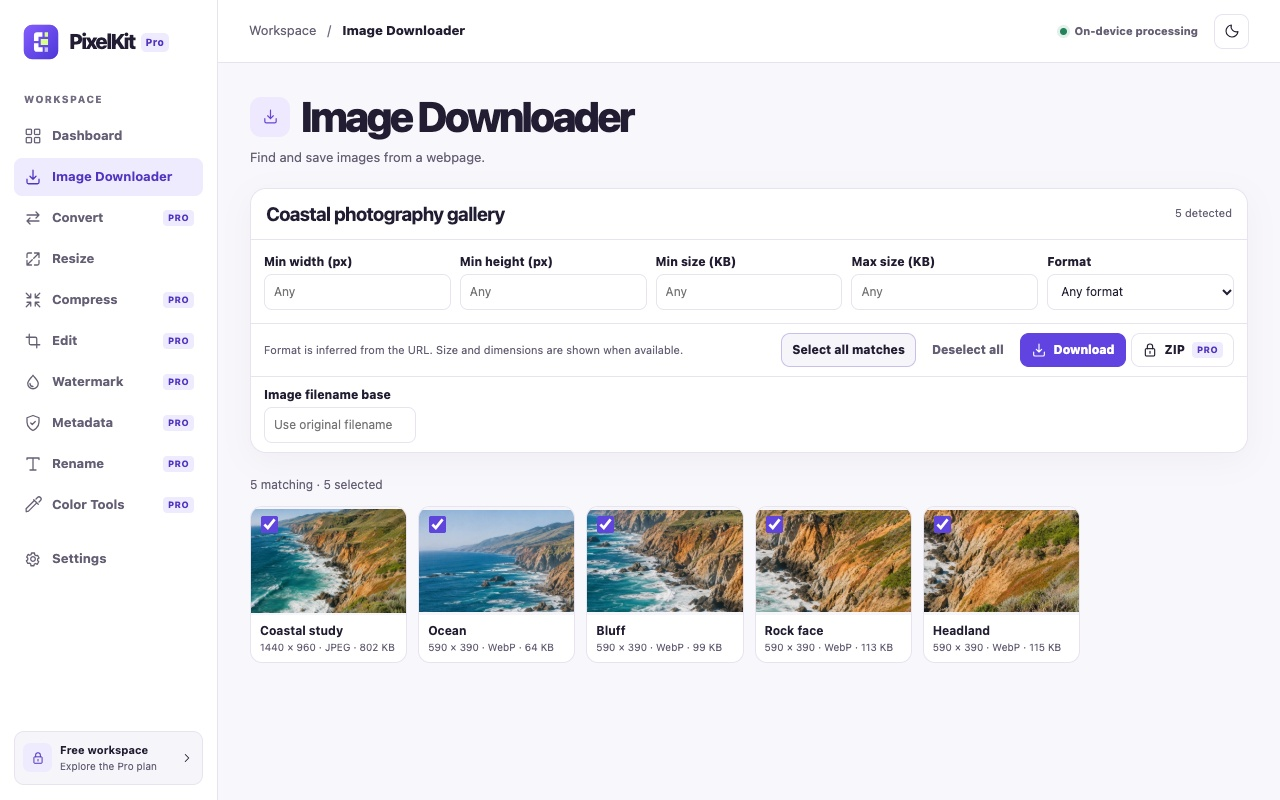
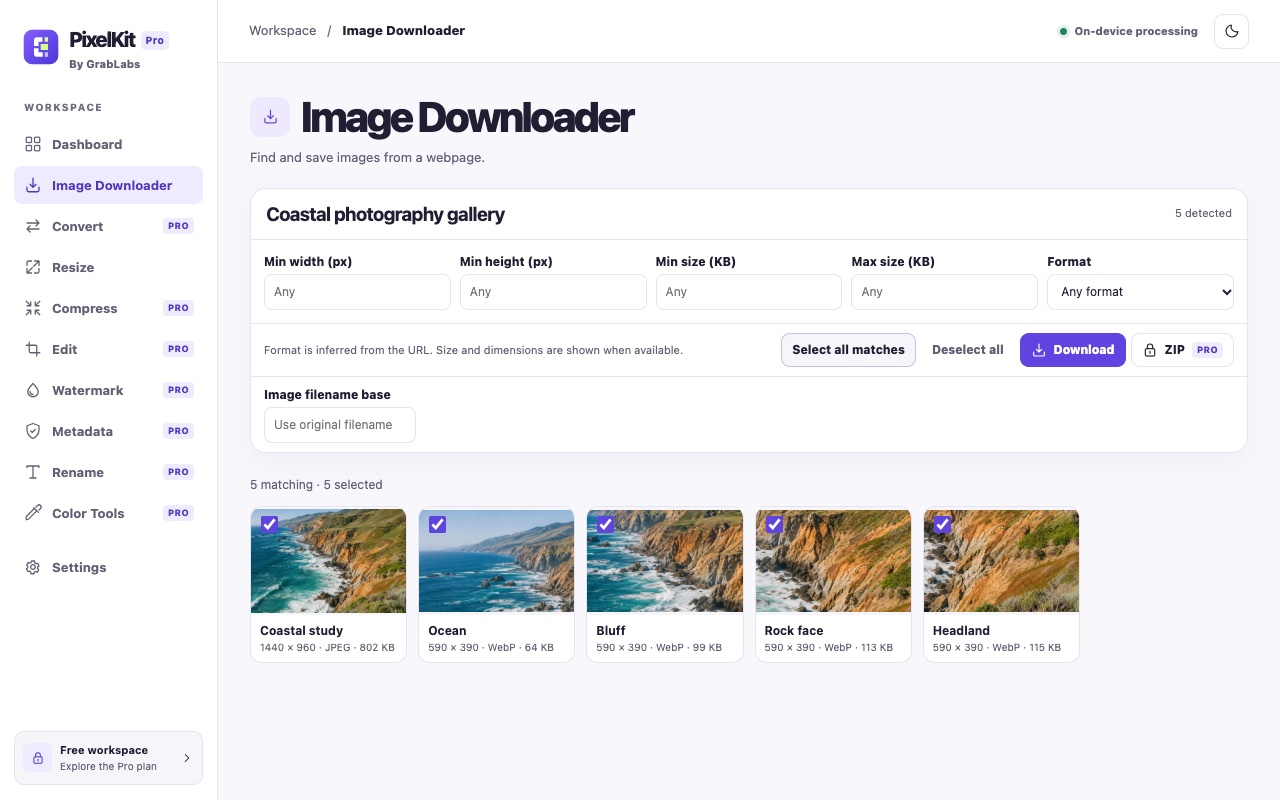
Publish PixelKit Pro by GrabLabs at $8.99

diff --git a/privacy-policy.html b/privacy-policy.html
@@ -4,9 +4,10 @@
   <meta charset="utf-8">
   <meta name="viewport" content="width=device-width,initial-scale=1">
   <title>Privacy policy | PixelKit Pro</title>
-  <meta name="description" content="How PixelKit Labs handles local images, webpage downloads, site visits and product support.">
+  <meta name="description" content="How GrabLabs handles local images, webpage downloads, site visits and product support.">
+  <meta name="author" content="GrabLabs">
   <meta name="theme-color" content="#171229">
-  <link rel="canonical" href="https://aavedisian00.github.io/pixelkit-website/privacy-policy.html">
+  <link rel="canonical" href="https://grab-labs.github.io/pixelkit-website/privacy-policy.html">
   <link rel="icon" type="image/png" sizes="32x32" href="assets/icon32.png">
   <link rel="stylesheet" href="styles.css">
 </head>
@@ -18,15 +19,15 @@
   </div></header>
   <main id="main" class="doc">
     <h1>Privacy policy</h1>
-    <p class="doc-lead">Effective November 24, 2026. This policy covers PixelKit Pro 1.1.0 and the PixelKit Labs product website.</p>
+    <p class="doc-lead">Effective November 24, 2026. This policy covers PixelKit Pro 1.2.0 and the GrabLabs product website.</p>
     <section><h2>Local image processing</h2><p>When you choose an image from your device, PixelKit Pro reads its filename, image contents and properties to perform the operation you request. Metadata inspection can display embedded information such as camera and GPS details. These data are processed on your device. PixelKit Pro does not upload your image contents, send them to its publisher, or use cloud processing. The extension includes no analytics, advertising, tracking, user registration or payment services.</p></section>
     <section><h2>Webpage scanning and downloads</h2><p>The extension scans a tab only after you choose <strong>Scan this webpage</strong> from the toolbar popup. It reads that tab’s title and origin, image URLs, and available alt text, dimensions and sizes to build the gallery. It does not collect general browsing history. Gallery thumbnails may request images from their original hosts using Chrome’s normal image-loading behavior. Downloads request the selected image URLs from their original hosts. Requests omit cross-site credentials and PixelKit sets no referrer. When the original tab is still available, a same-origin fallback may use that webpage’s normal session credentials to fetch an image it can already read. The image hosts can receive normal connection information such as your IP address. PixelKit Pro sends no scan data to its publisher or an analytics service.</p></section>
     <section><h2>Storage and control</h2><p>Your queue, gallery and output previews live in the workspace’s memory. Chrome session storage briefly holds scan results for the handoff from the popup and the workspace deletes them when read. If the handoff is interrupted, expired records may remain in Chrome session storage until a subsequent scan cleans them up, the extension reloads, or the browser session ends. Color theme preferences are saved in the Chrome profile until you reset extension data or uninstall the extension.</p><p>Exports are saved locally through Chrome. Chrome manages download files and download history. PixelKit Pro checks the status of the downloads it starts to release temporary file handles. It does not inspect general Chrome download history. You can close the workspace to clear its working data and use Chrome or your operating system to manage export files and download history.</p></section>
-    <section><h2>Sharing, changes and contact</h2><p>The extension publisher receives no extension telemetry or image data and does not share or sell them. Network requests to the original image hosts are described above. An updated policy will accompany material changes to how the extension handles data. For a privacy question or request, contact PixelKit Labs privately using the email on <a href="support.html#contact">the Support page</a>.</p></section>
-    <section><h2>This website and support</h2><p>This website uses no publisher-run analytics, advertising scripts, signup forms or payment fields. GitHub Pages hosts the site, and GitHub may process standard service data such as IP addresses and request details. <a href="https://docs.github.com/en/site-policy/privacy-policies/github-general-privacy-statement">Read GitHub’s privacy statement</a>.</p><p>If you email us, PixelKit Labs uses your address and message to respond, troubleshoot and keep necessary support records. The email provider processes messages to deliver them. GitHub Issues is a public forum for non-sensitive bug reports. Use email for private information and remove personal details from sample files.</p><p>Purchases are currently unavailable. Before introducing a payment or activation provider, PixelKit Labs will update this policy to describe the relevant data and recipients.</p></section>
+    <section><h2>Sharing, changes and contact</h2><p>The extension publisher receives no extension telemetry or image data and does not share or sell them. Network requests to the original image hosts are described above. An updated policy will accompany material changes to how the extension handles data. For a privacy question or request, contact GrabLabs privately using the email on <a href="support.html#contact">the Support page</a>.</p></section>
+    <section><h2>This website and support</h2><p>This website uses no publisher-run analytics, advertising scripts, signup forms or payment fields. GitHub Pages hosts the site, and GitHub may process standard service data such as IP addresses and request details. <a href="https://docs.github.com/en/site-policy/privacy-policies/github-general-privacy-statement">Read GitHub’s privacy statement</a>.</p><p>If you email us, GrabLabs uses your address and message to respond, troubleshoot and keep necessary support records. The email provider processes messages to deliver them. GitHub Issues is a public forum for non-sensitive bug reports. Use email for private information and remove personal details from sample files.</p><p>Purchases are currently unavailable. Before introducing a payment or activation provider, GrabLabs will update this policy to describe the relevant data and recipients.</p></section>
   </main>
   <footer class="footer"><div class="wrap footer-layout">
-    <a class="wordmark" href="./" aria-label="PixelKit Pro home"><img src="assets/brand.svg" width="33" height="33" alt=""><span>PixelKit <strong>Pro</strong><small>Published by PixelKit Labs</small></span></a>
+    <a class="wordmark" href="./" aria-label="PixelKit Pro home"><img src="assets/brand.svg" width="33" height="33" alt=""><span>PixelKit <strong>Pro</strong><small>Published by GrabLabs</small></span></a>
     <nav aria-label="Footer"><a href="privacy-policy.html" aria-current="page">Privacy policy</a><a href="terms.html">Terms of service</a><a href="refund-policy.html">Refund policy</a><a href="support.html">Support</a></nav>
   </div></footer>
 </body>

diff --git a/terms.html b/terms.html
@@ -4,9 +4,10 @@
   <meta charset="utf-8">
   <meta name="viewport" content="width=device-width,initial-scale=1">
   <title>Terms of service | PixelKit Pro</title>
-  <meta name="description" content="Terms for using the PixelKit Pro website and Chrome extension from PixelKit Labs.">
+  <meta name="description" content="Terms for using the PixelKit Pro website and Chrome extension from GrabLabs.">
+  <meta name="author" content="GrabLabs">
   <meta name="theme-color" content="#171229">
-  <link rel="canonical" href="https://aavedisian00.github.io/pixelkit-website/terms.html">
+  <link rel="canonical" href="https://grab-labs.github.io/pixelkit-website/terms.html">
   <link rel="icon" type="image/png" sizes="32x32" href="assets/icon32.png">
   <link rel="stylesheet" href="styles.css">
 </head>
@@ -19,14 +20,14 @@
   <main id="main" class="doc">
     <h1>Terms of service</h1>
     <p class="doc-lead">Effective November 24, 2026. These terms apply to the PixelKit Pro website and extension.</p>
-    <section><h2>About PixelKit Pro</h2><p>PixelKit Pro is a Chrome extension published by PixelKit Labs. It provides tools for processing images on your device. These terms cover this website and any authorized copy of the PixelKit Pro extension you use.</p></section>
-    <section><h2>License and acceptable use</h2><p>Subject to these terms, PixelKit Labs grants you permission to use an authorized copy of PixelKit Pro for personal or business image work. You retain your rights to the images you supply and the outputs you create. Third-party software included with the extension remains subject to its own license terms.</p><p>Process or download only content you are entitled to use. Respect copyright, privacy, applicable law and website restrictions. Do not use PixelKit Pro to bypass authentication, access controls or DRM.</p></section>
-    <section><h2>Availability and planned Pro license</h2><p>The Chrome Web Store listing and Pro purchase are coming soon. Free includes Image Downloader and Resize. Conversion, compression, editing, watermarking, metadata tools, renaming, color tools and ZIP export require Pro. The planned Pro price is $14.99 USD for a one-time lifetime license with no recurring subscription fee. Final purchase terms, compatibility and activation instructions will be provided before payment is available.</p><p>If PixelKit Labs launches the planned Polar checkout, Polar would act as the authorized reseller and merchant of record for purchases made through that checkout. PixelKit Labs would provide the product and technical support. See the <a href="refund-policy.html">proposed refund policy</a>.</p></section>
-    <section><h2>Compatibility and your files</h2><p>PixelKit Pro depends on browser support, available device memory and, for webpage downloads, access provided by the website. Keep a copy of important source files and review exports before using them. PixelKit Labs may update the extension as browsers and supported formats change.</p><p>These terms preserve the rights and remedies that apply under consumer law.</p></section>
-    <section><h2>Privacy and contact</h2><p>The <a href="privacy-policy.html">privacy policy</a> explains local processing and website data handling. For questions about these terms, <a href="support.html#contact">contact PixelKit Labs</a>.</p></section>
+    <section><h2>About PixelKit Pro</h2><p>PixelKit Pro is a Chrome extension published by GrabLabs. It provides tools for processing images on your device. These terms cover this website and any authorized copy of the PixelKit Pro extension you use.</p></section>
+    <section><h2>License and acceptable use</h2><p>Subject to these terms, GrabLabs grants you permission to use an authorized copy of PixelKit Pro for personal or business image work. You retain your rights to the images you supply and the outputs you create. Third-party software included with the extension remains subject to its own license terms.</p><p>Process or download only content you are entitled to use. Respect copyright, privacy, applicable law and website restrictions. Do not use PixelKit Pro to bypass authentication, access controls or DRM.</p></section>
+    <section><h2>Availability and planned Pro license</h2><p>The Chrome Web Store listing and Pro purchase are coming soon. Free includes Image Downloader and Resize. Conversion, compression, editing, watermarking, metadata tools, renaming, color tools and ZIP export require Pro. The planned Pro price is $8.99 USD for a one-time lifetime license with no recurring subscription fee. Final purchase terms, compatibility and activation instructions will be provided before payment is available.</p><p>If GrabLabs launches the planned Polar checkout, Polar would act as the authorized reseller and merchant of record for purchases made through that checkout. GrabLabs would provide the product and technical support. See the <a href="refund-policy.html">proposed refund policy</a>.</p></section>
+    <section><h2>Compatibility and your files</h2><p>PixelKit Pro depends on browser support, available device memory and, for webpage downloads, access provided by the website. Keep a copy of important source files and review exports before using them. GrabLabs may update the extension as browsers and supported formats change.</p><p>These terms preserve the rights and remedies that apply under consumer law.</p></section>
+    <section><h2>Privacy and contact</h2><p>The <a href="privacy-policy.html">privacy policy</a> explains local processing and website data handling. For questions about these terms, <a href="support.html#contact">contact GrabLabs</a>.</p></section>
   </main>
   <footer class="footer"><div class="wrap footer-layout">
-    <a class="wordmark" href="./" aria-label="PixelKit Pro home"><img src="assets/brand.svg" width="33" height="33" alt=""><span>PixelKit <strong>Pro</strong><small>Published by PixelKit Labs</small></span></a>
+    <a class="wordmark" href="./" aria-label="PixelKit Pro home"><img src="assets/brand.svg" width="33" height="33" alt=""><span>PixelKit <strong>Pro</strong><small>Published by GrabLabs</small></span></a>
     <nav aria-label="Footer"><a href="privacy-policy.html">Privacy policy</a><a href="terms.html" aria-current="page">Terms of service</a><a href="refund-policy.html">Refund policy</a><a href="support.html">Support</a></nav>
   </div></footer>
 </body>

diff --git a/index.html b/index.html
@@ -4,14 +4,16 @@
   <meta charset="utf-8">
   <meta name="viewport" content="width=device-width,initial-scale=1">
   <title>PixelKit Pro | Private image tools for Chrome</title>
-  <meta name="description" content="Download webpage images and resize on your device for free. Unlock more image tools with the planned $14.99 lifetime upgrade from PixelKit Labs.">
+  <meta name="description" content="Download webpage images and resize on your device for free. Unlock more image tools with the planned $8.99 lifetime upgrade from GrabLabs.">
+  <meta name="author" content="GrabLabs">
   <meta name="theme-color" content="#171229">
-  <link rel="canonical" href="https://aavedisian00.github.io/pixelkit-website/">
+  <link rel="canonical" href="https://grab-labs.github.io/pixelkit-website/">
+  <meta property="og:site_name" content="PixelKit Pro by GrabLabs">
   <meta property="og:type" content="website">
   <meta property="og:title" content="PixelKit Pro | Private image tools for Chrome">
   <meta property="og:description" content="An image workspace for Chrome that processes your files on your device.">
-  <meta property="og:url" content="https://aavedisian00.github.io/pixelkit-website/">
-  <meta property="og:image" content="https://aavedisian00.github.io/pixelkit-website/assets/social-preview.jpg">
+  <meta property="og:url" content="https://grab-labs.github.io/pixelkit-website/">
+  <meta property="og:image" content="https://grab-labs.github.io/pixelkit-website/assets/social-preview.jpg">
   <meta property="og:image:alt" content="PixelKit Pro resizing a coastal photograph in its Chrome workspace">
   <meta name="twitter:card" content="summary_large_image">
   <link rel="icon" type="image/png" sizes="32x32" href="assets/icon32.png">
@@ -31,7 +33,7 @@
     <section class="hero" aria-labelledby="hero-title">
       <div class="wrap hero-layout">
         <div class="hero-copy">
-          <p class="eyebrow"><span></span> A Chrome extension by PixelKit Labs</p>
+          <p class="eyebrow"><span></span> A Chrome extension by GrabLabs</p>
           <h1 id="hero-title">Your images.<br><em>Your device.</em></h1>
           <p>Download webpage images and resize for free in Chrome. Pro adds conversion, compression, editing and more. Local files stay on your device.</p>
           <div class="actions"><a class="button primary" href="#workspace">Explore the workspace</a><a class="button dark-outline" href="#pricing">View pricing</a></div>
@@ -82,7 +84,7 @@
           <button class="button unavailable" type="button" disabled>Download Free · Coming Soon</button>
         </article>
         <article class="price-card pro-card">
-          <h3>Pro</h3><p class="price">$14.99 <span>USD</span></p><p>Planned lifetime license, paid once.</p>
+          <h3>Pro</h3><p class="price">$8.99 <span>USD</span></p><p>Planned lifetime license, paid once.</p>
           <button class="button unavailable" type="button" disabled>Buy Pro · Coming Soon</button>
         </article>
       </div>
@@ -106,20 +108,20 @@
     </section>
     <section class="faq-band" id="faq" aria-labelledby="faq-title">
       <div class="wrap faq-layout">
-        <div><h2 id="faq-title">Frequently asked questions</h2><p>For troubleshooting or product questions, <a href="support.html">contact PixelKit Labs</a>.</p></div>
+        <div><h2 id="faq-title">Frequently asked questions</h2><p>For troubleshooting or product questions, <a href="support.html">contact GrabLabs</a>.</p></div>
         <div class="accordion">
           <details><summary>Do my images ever leave my device?</summary><p>PixelKit Pro processes local files in Chrome without uploading them. If you scan a webpage, Chrome may request thumbnails and selected images from their original hosts. <a href="privacy-policy.html">See the full privacy policy</a>.</p></details>
           <details><summary>Does PixelKit Pro work offline?</summary><p>Resize and the local Pro tools work offline after installation. Scanning and downloading webpage imagery can require access to the page and its image hosts.</p></details>
           <details><summary>How are SVGs and animated images converted?</summary><p>SVG output embeds a raster image. Conversion of animated images exports one still frame. JPEG and BMP are exported with a white background where the source was transparent.</p></details>
           <details><summary>What can I do with Free?</summary><p>Download webpage images individually or in bulk, and resize local images one at a time or in batches. ZIP export and the other image tools require Pro.</p></details>
-          <details><summary>What does the lifetime Pro price mean?</summary><p>The planned price is $14.99 USD paid once for a lifetime Pro license, with no recurring subscription fee. Purchase and activation details will be provided when Pro is available.</p></details>
-          <details><summary>When can I install the extension or purchase Pro?</summary><p>Both are marked Coming Soon. PixelKit Labs will add the Chrome Web Store and purchase links when they are available.</p></details>
+          <details><summary>What does the lifetime Pro price mean?</summary><p>The planned price is $8.99 USD paid once for a lifetime Pro license, with no recurring subscription fee. Purchase and activation details will be provided when Pro is available.</p></details>
+          <details><summary>When can I install the extension or purchase Pro?</summary><p>Both are marked Coming Soon. GrabLabs will add the Chrome Web Store and purchase links when they are available.</p></details>
         </div>
       </div>
     </section>
   </main>
   <footer class="footer"><div class="wrap footer-layout">
-    <a class="wordmark" href="./" aria-label="PixelKit Pro home"><img src="assets/brand.svg" width="33" height="33" alt=""><span>PixelKit <strong>Pro</strong><small>Published by PixelKit Labs</small></span></a>
+    <a class="wordmark" href="./" aria-label="PixelKit Pro home"><img src="assets/brand.svg" width="33" height="33" alt=""><span>PixelKit <strong>Pro</strong><small>Published by GrabLabs</small></span></a>
     <nav aria-label="Footer"><a href="privacy-policy.html">Privacy policy</a><a href="terms.html">Terms of service</a><a href="refund-policy.html">Refund policy</a><a href="support.html">Support</a></nav>
   </div></footer>
 </body>

diff --git a/support.html b/support.html
@@ -4,9 +4,10 @@
   <meta charset="utf-8">
   <meta name="viewport" content="width=device-width,initial-scale=1">
   <title>Customer support | PixelKit Pro</title>
-  <meta name="description" content="Contact PixelKit Labs for PixelKit Pro support, privacy questions and troubleshooting.">
+  <meta name="description" content="Contact GrabLabs for PixelKit Pro support, privacy questions and troubleshooting.">
+  <meta name="author" content="GrabLabs">
   <meta name="theme-color" content="#171229">
-  <link rel="canonical" href="https://aavedisian00.github.io/pixelkit-website/support.html">
+  <link rel="canonical" href="https://grab-labs.github.io/pixelkit-website/support.html">
   <link rel="icon" type="image/png" sizes="32x32" href="assets/icon32.png">
   <link rel="stylesheet" href="styles.css">
 </head>
@@ -18,17 +19,17 @@
   </div></header>
   <main id="main" class="doc">
     <h1>Customer support</h1>
-    <p class="doc-lead">Get help with PixelKit Pro, report a bug or ask PixelKit Labs a question.</p>
-    <section id="contact"><h2>Contact PixelKit Labs</h2>
+    <p class="doc-lead">Get help with PixelKit Pro, report a bug or ask GrabLabs a question.</p>
+    <section id="contact"><h2>Contact GrabLabs</h2>
     <p>Email us for private support, privacy questions or questions about plans and the release.</p>
     <address class="contact-links"><a href="mailto:drshopenstein@gmail.com">drshopenstein@gmail.com</a></address>
     </section>
-    <section><h2>Report a public issue</h2><p>Use <a href="https://github.com/aavedisian00/pixelkit-website/issues">GitHub Issues</a> for public bug reports. Include the extension version, Chrome version, operating system, steps, and any error message. Use a non-sensitive example image if one helps.</p><p>Public issues are visible to everyone. Send personal information or sensitive details by email instead.</p></section>
+    <section><h2>Report a public issue</h2><p>Use <a href="https://github.com/Grab-Labs/pixelkit-website/issues">GitHub Issues</a> for public bug reports. Include the extension version, Chrome version, operating system, steps, and any error message. Use a non-sensitive example image if one helps.</p><p>Public issues are visible to everyone. Send personal information or sensitive details by email instead.</p></section>
     <section><h2>Troubleshooting</h2><p>If a webpage scan finds few images, scroll to load lazy images and scan again. Chrome and the original host may limit which images can be saved.</p><p>If an image fails to import, check its actual format and try a smaller file. For large batches, export completed items and split the remaining files into smaller groups. Use Chrome Downloads to find exports.</p></section>
     <section><h2>Installation and purchases</h2><p>The public Chrome Web Store and Pro checkout links are coming soon. Free includes Image Downloader and Resize. Other image tools and ZIP export require Pro. See <a href="./#pricing">pricing and availability</a> for the current status.</p></section>
   </main>
   <footer class="footer"><div class="wrap footer-layout">
-    <a class="wordmark" href="./" aria-label="PixelKit Pro home"><img src="assets/brand.svg" width="33" height="33" alt=""><span>PixelKit <strong>Pro</strong><small>Published by PixelKit Labs</small></span></a>
+    <a class="wordmark" href="./" aria-label="PixelKit Pro home"><img src="assets/brand.svg" width="33" height="33" alt=""><span>PixelKit <strong>Pro</strong><small>Published by GrabLabs</small></span></a>
     <nav aria-label="Footer"><a href="privacy-policy.html">Privacy policy</a><a href="terms.html">Terms of service</a><a href="refund-policy.html">Refund policy</a><a href="support.html" aria-current="page">Support</a></nav>
   </div></footer>
 </body>

diff --git a/refund-policy.html b/refund-policy.html
@@ -4,9 +4,10 @@
   <meta charset="utf-8">
   <meta name="viewport" content="width=device-width,initial-scale=1">
   <title>Refund policy | PixelKit Pro</title>
-  <meta name="description" content="PixelKit Labs’ proposed 14-day PixelKit Pro refund policy and future request process.">
+  <meta name="description" content="GrabLabs’ proposed 14-day PixelKit Pro refund policy and future request process.">
+  <meta name="author" content="GrabLabs">
   <meta name="theme-color" content="#171229">
-  <link rel="canonical" href="https://aavedisian00.github.io/pixelkit-website/refund-policy.html">
+  <link rel="canonical" href="https://grab-labs.github.io/pixelkit-website/refund-policy.html">
   <link rel="icon" type="image/png" sizes="32x32" href="assets/icon32.png">
   <link rel="stylesheet" href="styles.css">
 </head>
@@ -19,12 +20,12 @@
   <main id="main" class="doc">
     <h1>Refund policy</h1>
     <p class="doc-lead">Proposed 14-day policy for the planned one-time Pro purchase.</p>
-    <p class="callout"><strong>Proposed policy. Subject to approval by PixelKit Labs before sales begin.</strong> Pro purchases are currently unavailable.</p>
+    <p class="callout"><strong>Proposed policy. Subject to approval by GrabLabs before sales begin.</strong> Pro purchases are currently unavailable.</p>
     <section><h2>Proposed 14-day window</h2><p>The proposal would allow a customer to request a full refund for a one-time PixelKit Pro purchase within 14 calendar days of purchase. Relevant consumer rights and any required remedies would continue to apply.</p></section>
-    <section><h2>How requests would work</h2><p>Once purchases are available, use the instructions in the checkout receipt or <a href="support.html#contact">contact PixelKit Labs privately</a> with your order number and purchase date. Keep payment details and license keys out of public issue reports.</p><p>If the purchase uses the planned Polar checkout, approved refunds would be handled through Polar. Refunding an order may deactivate the related Pro license. The final policy and request instructions will be available before checkout opens.</p></section>
+    <section><h2>How requests would work</h2><p>Once purchases are available, use the instructions in the checkout receipt or <a href="support.html#contact">contact GrabLabs privately</a> with your order number and purchase date. Keep payment details and license keys out of public issue reports.</p><p>If the purchase uses the planned Polar checkout, approved refunds would be handled through Polar. Refunding an order may deactivate the related Pro license. The final policy and request instructions will be available before checkout opens.</p></section>
   </main>
   <footer class="footer"><div class="wrap footer-layout">
-    <a class="wordmark" href="./" aria-label="PixelKit Pro home"><img src="assets/brand.svg" width="33" height="33" alt=""><span>PixelKit <strong>Pro</strong><small>Published by PixelKit Labs</small></span></a>
+    <a class="wordmark" href="./" aria-label="PixelKit Pro home"><img src="assets/brand.svg" width="33" height="33" alt=""><span>PixelKit <strong>Pro</strong><small>Published by GrabLabs</small></span></a>
     <nav aria-label="Footer"><a href="privacy-policy.html">Privacy policy</a><a href="terms.html">Terms of service</a><a href="refund-policy.html" aria-current="page">Refund policy</a><a href="support.html">Support</a></nav>
   </div></footer>
 </body>

diff --git a/README.md b/README.md
@@ -1,9 +1,9 @@
 # PixelKit Pro website
 
-Public product, policy and support pages published by PixelKit Labs.
+Public product, policy and support pages published by GrabLabs.
 
 GitHub Pages publishes this static site from `main` at the repository root. It needs no installation or build step. Serve the folder over HTTP for local preview.
 
 To update the public support address, edit the visible email and its `mailto:` value in `support.html`. The policy pages link to that contact section.
 
-The screenshots depict the PixelKit Pro 1.1.0 Chrome workspace. The editor screenshot previews the planned Pro tier. Manrope is included under the SIL Open Font License in `assets/Manrope-OFL.txt`.
+The screenshots depict the PixelKit Pro 1.2.0 Chrome workspace. The editor screenshot previews the planned Pro tier. Manrope is included under the SIL Open Font License in `assets/Manrope-OFL.txt`.
